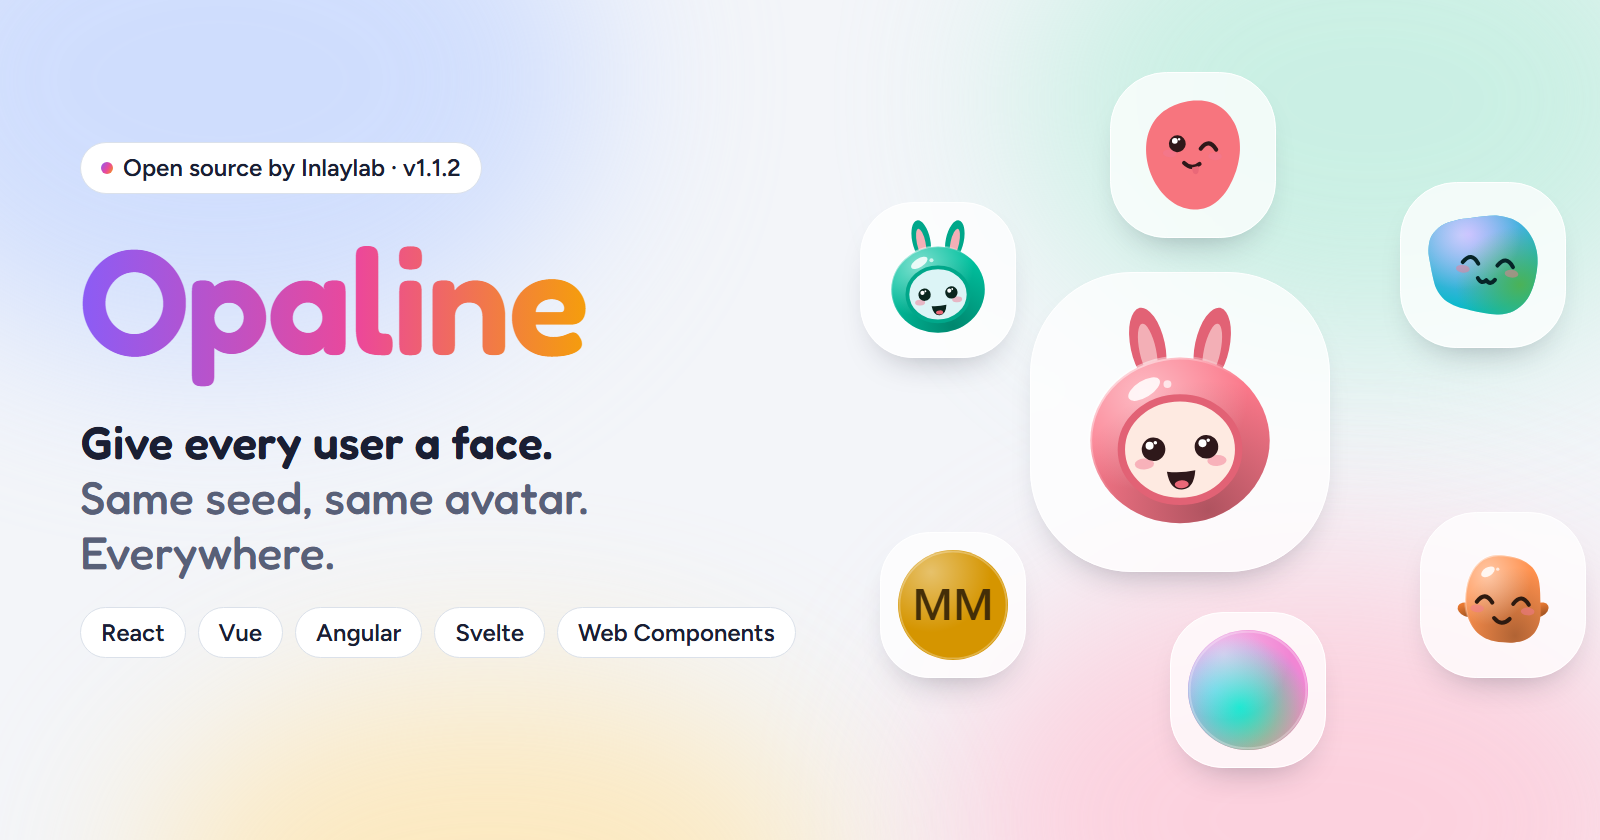
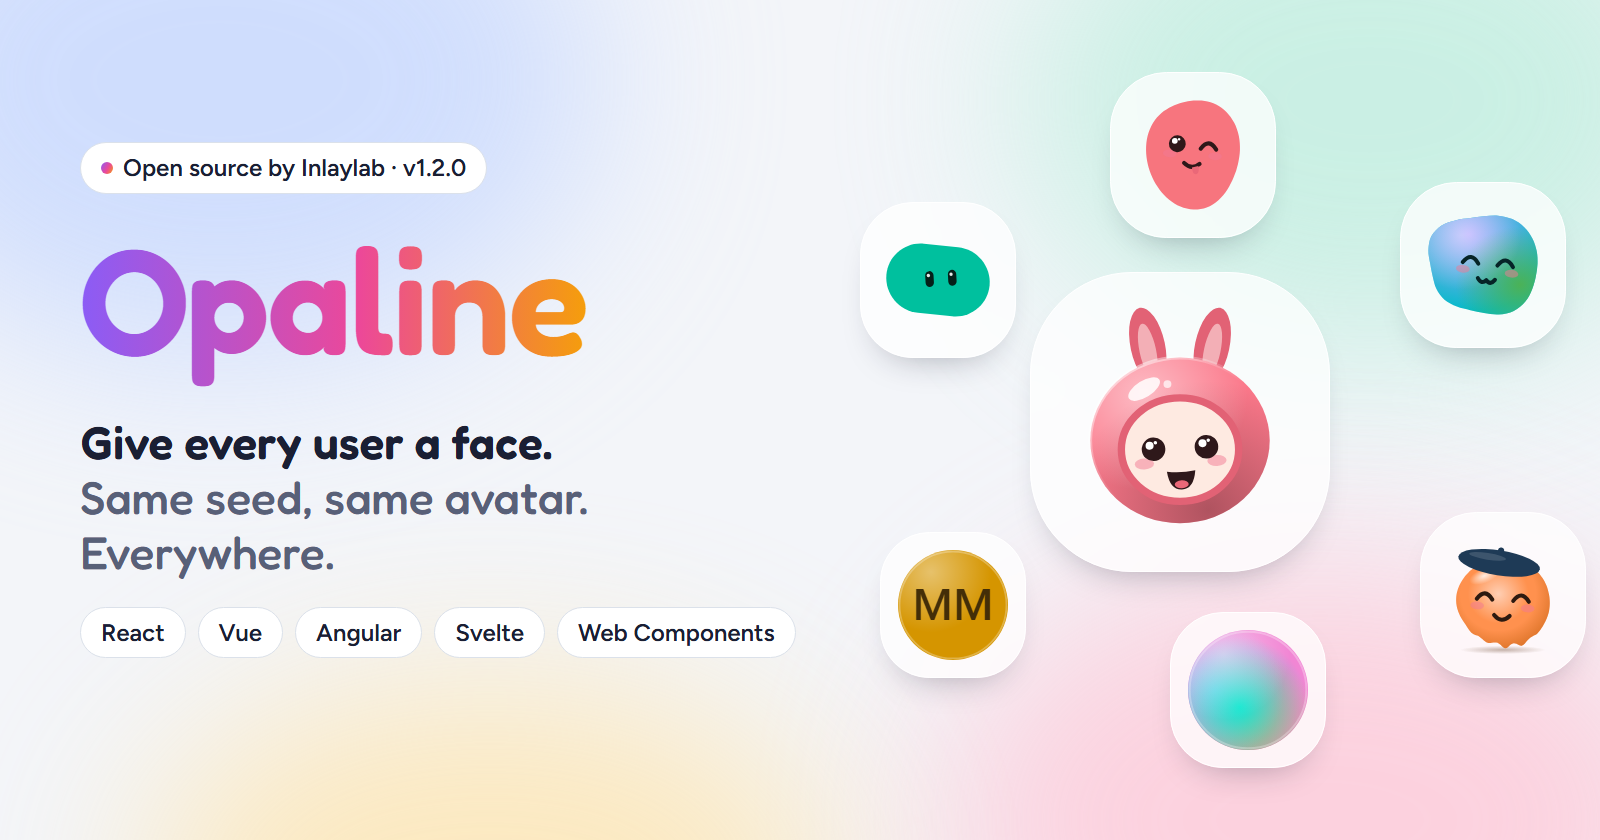
feat(site): add coffee button, tidy header, fix README images
- Header: GitHub icon link and a yellow Buy me a coffee button; footer link too
- Playground: Vue and Angular snippets use single-quoted seed literals
- README: move three launch images into docs/assets so they exist on GitHub
- Cover image uses Pip and Plush avatars

Changed region(s): [[0.5312, 0.2476, 0.625, 0.4024], [0.9062, 0.65, 0.9688, 0.7738], [0.25, 0.1857, 0.3125, 0.2167]]

diff --git a/apps/docs/src/scripts/playground.ts b/apps/docs/src/scripts/playground.ts
@@ -127,6 +127,8 @@ function flash(id: string, text: string): void {
 
 /** A JS string literal: safe inside `{…}` in JSX and Svelte, whatever the seed holds. */
 const js = (v: string) => JSON.stringify(v)
+/** Single-quoted literal for expressions inside a double-quoted attribute, so the example avoids &quot;. */
+const jsq = (v: string) => `'${JSON.stringify(v).slice(1, -1).replace(/\\"/g, '"').replace(/'/g, "\\'")}'`
 /** Escapes text for a double-quoted HTML attribute. */
 const html = (v: string) => v.replace(/&/g, '&amp;').replace(/"/g, '&quot;').replace(/</g, '&lt;')
 const attrs = (opts: Opts, fmt: (k: string, v: string) => string) =>
@@ -145,11 +147,11 @@ function snippet(fw: string, seed: string, style: string, opts: Opts, size: numb
     case 'react':
       return `import { Avatar } from '@inlaylab/opaline-react'\n${imp}\n\n<Avatar seed={${js(seed)}} look={${style}}${sz ? ` size={${sz}}` : ''}${attrs(opts, plain)} />`
     case 'vue':
-      return `<script setup>\nimport { Avatar } from '@inlaylab/opaline-vue'\n${imp}\n</script>\n\n<template>\n  <Avatar :seed="${html(js(seed))}" :look="${style}"${sz ? ` :size="${sz}"` : ''}${attrs(opts, plain)} />\n</template>`
+      return `<script setup>\nimport { Avatar } from '@inlaylab/opaline-vue'\n${imp}\n</script>\n\n<template>\n  <Avatar :seed="${html(jsq(seed))}" :look="${style}"${sz ? ` :size="${sz}"` : ''}${attrs(opts, plain)} />\n</template>`
     case 'svelte':
       return `<script>\n  import { Avatar } from '@inlaylab/opaline-svelte'\n  ${imp}\n</script>\n\n<Avatar seed={${js(seed)}} look={${style}}${sz ? ` size={${sz}}` : ''}${attrs(opts, plain)} />`
     case 'angular':
-      return `import { Component } from '@angular/core'\nimport { OpalineAvatar } from '@inlaylab/opaline-angular'\n${imp}\n\n@Component({\n  selector: 'app-user-avatar',\n  imports: [OpalineAvatar],\n  template: \`\n    <op-avatar [seed]="${html(js(seed)).replace(/[`\\$]/g, '\\$&')}" [look]="${style}"${sz ? ` [size]="${sz}"` : ''}${attrs(opts, plain)} />\n  \`,\n})\nexport class UserAvatar {\n  protected readonly ${style} = ${style}\n}`
+      return `import { Component } from '@angular/core'\nimport { OpalineAvatar } from '@inlaylab/opaline-angular'\n${imp}\n\n@Component({\n  selector: 'app-user-avatar',\n  imports: [OpalineAvatar],\n  template: \`\n    <op-avatar [seed]="${html(jsq(seed)).replace(/[`\\$]/g, '\\$&')}" [look]="${style}"${sz ? ` [size]="${sz}"` : ''}${attrs(opts, plain)} />\n  \`,\n})\nexport class UserAvatar {\n  protected readonly ${style} = ${style}\n}`
     default:
       return `import { createAvatar } from '@inlaylab/opaline'\n${imp}\n\ncreateAvatar(${style}, ${JSON.stringify({ seed, ...(sz ? { size } : {}), ...opts }, null, 2)}).svg`
   }

diff --git a/apps/docs/src/styles/site.css b/apps/docs/src/styles/site.css
@@ -234,6 +234,22 @@ kbd {
   color: var(--foreground);
   background: var(--muted);
 }
+.coffee {
+  display: inline-grid;
+  place-items: center;
+  width: 34px;
+  height: 34px;
+  border-radius: 50%;
+  background: #ffdd00;
+  color: #1a1f33;
+  transition:
+    filter 0.15s,
+    transform 0.15s;
+}
+.coffee:hover {
+  filter: brightness(0.95);
+  transform: translateY(-1px);
+}
 .spacer {
   flex: 1;
 }
@@ -994,8 +1010,7 @@ footer .wrap {
 }
 
 @media (max-width: 820px) {
-  .nav .wide,
-  .gh span {
+  .nav .wide {
     display: none;
   }
   .nav a,
@@ -1005,7 +1020,8 @@ footer .wrap {
 }
 @media (max-width: 480px) {
   /* Room for the Compare link; the footer links to GitHub too. */
-  .gh {
+  .gh,
+  .coffee {
     display: none;
   }
   .brand {
@@ -2951,7 +2967,7 @@ section.block.flush {
   display: flex;
   justify-self: end;
   align-items: center;
-  gap: 4px;
+  gap: 6px;
 }
 .bar-cta {
   height: 34px;

diff --git a/apps/docs/e2e.test.ts b/apps/docs/e2e.test.ts
@@ -182,7 +182,8 @@ test('every snippet carries the exact seed, even with quotes, backslashes and br
         let raw = code.match(new RegExp(attr + '="([^"]*)"'))![1]!
         // Angular's template sits in a TS template literal: undo that layer first.
         if (tab === 'angular') raw = raw.replace(/\\([`\\$])/g, '$1')
-        return JSON.parse(decode(raw))
+        // The attribute holds a single-quoted JS literal; evaluate it as the framework would.
+        return new Function('return ' + decode(raw))()
       },
       [tab, code] as const,
     )

diff --git a/README.md b/README.md
@@ -39,7 +39,7 @@ const { svg } = createAvatar(clay, { seed: 'ada@inlay.dev', finish: 'gloss' })
 
 ## Why use it
 
-<img src="docs/launch/images/why.png" alt="An activity feed with grey silhouettes, then the same feed with Opaline avatars" width="100%">
+<img src="docs/assets/why.png" alt="An activity feed with grey silhouettes, then the same feed with Opaline avatars" width="100%">
 
 Grey circles, shared initials and random colors all fall short. Opaline fixes each one.
 
@@ -236,7 +236,7 @@ Plush takes `mood`, `expression` and `family` like Morph; its gummy look is its 
 
 ### Initials and shapes
 
-<img src="docs/launch/images/new-in-1-1.png" alt="Initials, avatar groups and PNG export, new in 1.1" width="100%">
+<img src="docs/assets/new-in-1-1.png" alt="Initials, avatar groups and PNG export, new in 1.1" width="100%">
 
 `initials` takes the letters from the seed: `ada.lovelace@inlay.dev` gives AL and `Zoë Nguyễn` gives ZN. Set `text` to show your own (up to 3 characters). Letters are SVG text in the system font, so every script works.
 
@@ -303,7 +303,7 @@ Pass `vars: { '--avatar-c1': '#7c3aed' }` to bake theme colors into the image.
 
 ## Same seed, same avatar
 
-<img src="docs/launch/images/ssr.png" alt="The server and the browser render the same bytes for the same seed" width="100%">
+<img src="docs/assets/ssr.png" alt="The server and the browser render the same bytes for the same seed" width="100%">
 
 The same seed and options give a **byte-identical SVG** in every 1.x release, on the server and in every browser.
 
